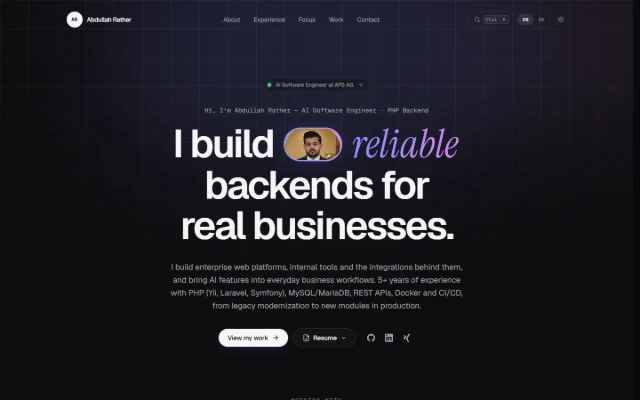
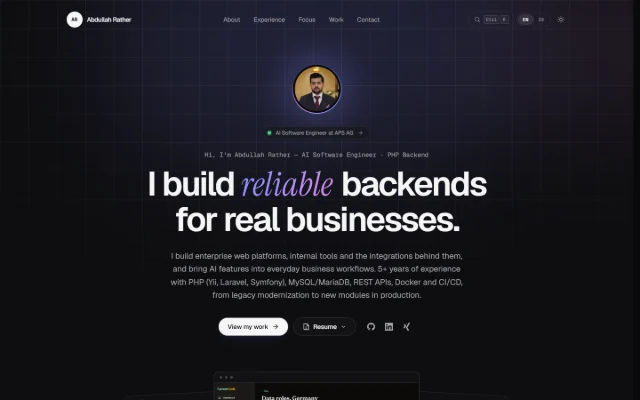
Move the portrait out of the headline and show the case studies in the hero
The portrait is a centred avatar above the headline again, so the heading is
one plain sentence for screen readers. Under the buttons, the three case
studies appear as a fan of windows that link to their pages.

diff --git a/src/components/Hero.jsx b/src/components/Hero.jsx
@@ -1,8 +1,10 @@
 import { useEffect, useRef, useState } from "react";
+import { Screen, Window } from "./Cover";
 import { Icon } from "./Icons";
 import { trackEvent } from "../lib/analytics";
 import { useExperienceYears } from "../lib/experience";
 import { useTranslation } from "../lib/i18n";
+import { studyPath } from "../lib/route";
 import { SOCIALS, STACK, getResume } from "../lib/site";
 
 const delay = (ms) => ({ "--delay": `${ms}ms` });
@@ -79,24 +81,69 @@ const ResumeMenu = () => {
   );
 };
 
-/** The portrait, set into the headline as a pill the height of a letter. */
 const Portrait = () => {
   const { t } = useTranslation();
   return (
-    <span className="mx-[0.06em] inline-block h-[0.86em] w-[1.5em] rounded-full bg-linear-to-r from-accent to-accent-2 p-[0.03em] align-[-0.1em] shadow-[0_0_3rem_-0.25rem_var(--glow)]">
-      <picture>
-        <source srcSet="/images/profile-avatar.avif" type="image/avif" />
-        <img
-          src="/images/profile-avatar.webp"
-          alt={t("ui.a11y.portrait")}
-          width="640"
-          height="640"
-          fetchPriority="high"
-          decoding="async"
-          className="size-full rounded-full object-cover object-[50%_22%]"
-        />
-      </picture>
-    </span>
+    <div className="enter relative mx-auto size-24 sm:size-28">
+      {/* Glow */}
+      <div aria-hidden="true" className="absolute -inset-4 -z-10 rounded-full bg-accent/30 blur-2xl" />
+
+      <div className="ring-conic relative size-full rounded-full p-0.5">
+        <div className="size-full rounded-full bg-bg p-1">
+          <picture>
+            <source srcSet="/images/profile-avatar.avif" type="image/avif" />
+            <img
+              src="/images/profile-avatar.webp"
+              alt={t("ui.a11y.portrait")}
+              width="640"
+              height="640"
+              fetchPriority="high"
+              decoding="async"
+              className="size-full rounded-full object-cover"
+            />
+          </picture>
+        </div>
+      </div>
+    </div>
+  );
+};
+
+const side =
+  "absolute top-[16%] w-[44%] opacity-70 transition-all duration-700 ease-out-expo hover:z-20 hover:-translate-y-2 hover:rotate-0 hover:opacity-100 focus-visible:z-20 focus-visible:opacity-100 sm:w-[38%]";
+
+/** The three case studies as a fan of windows under the buttons: one in front, two behind. */
+const Showcase = () => {
+  const { t } = useTranslation();
+  // In the order of the project list: the private platform (a schematic), then the two with screenshots.
+  const [right, left, front] = (t("projects.items") || []).filter((p) => p.caseStudy);
+  if (!front) return null;
+
+  const window = (project, className, sizes, eager) => (
+    <a
+      href={studyPath(project.slug)}
+      aria-label={`${t("ui.study.eyebrow")}: ${project.title}`}
+      className={`block ${className}`}
+    >
+      <Window className="aspect-16/10">
+        <Screen project={project} sizes={sizes} eager={eager} />
+      </Window>
+    </a>
+  );
+
+  return (
+    <div
+      className="enter relative mx-auto mt-14 max-w-4xl px-5 mask-[linear-gradient(to_bottom,#000_55%,transparent)] sm:mt-20"
+      style={delay(360)}
+    >
+      {window(left, `${side} left-5 -rotate-3`, "(min-width: 896px) 325px, 40vw")}
+      {window(right, `${side} right-5 rotate-3`, "(min-width: 896px) 325px, 40vw")}
+      {window(
+        front,
+        "relative z-10 mx-auto w-[68%] transition-transform duration-700 ease-out-expo hover:-translate-y-2 sm:w-[54%]",
+        "(min-width: 896px) 460px, 62vw",
+        true,
+      )}
+    </div>
   );
 };
 
@@ -105,11 +152,14 @@ const Hero = () => {
   const years = useExperienceYears();
 
   return (
-    <section id="top" className="relative overflow-hidden pb-16 pt-32 sm:pt-44 lg:pb-24">
+    <section id="top" className="relative overflow-hidden pb-16 pt-28 sm:pt-36 lg:pb-24">
       <div className="container-x text-center">
+        <Portrait />
+
         <a
           href="#experience"
-          className="enter group inline-flex items-center gap-2.5 rounded-full border border-line bg-card py-1.5 pl-2 pr-3.5 text-xs text-muted backdrop-blur transition-colors hover:border-line-strong hover:text-fg"
+          className="enter group mt-7 inline-flex items-center gap-2.5 rounded-full border border-line bg-card py-1.5 pl-2 pr-3.5 text-xs text-muted backdrop-blur transition-colors hover:border-line-strong hover:text-fg"
+          style={delay(60)}
         >
           <span className="relative flex size-2">
             <span className="absolute inline-flex size-full animate-ping-slow rounded-full bg-ok opacity-60" />
@@ -119,20 +169,20 @@ const Hero = () => {
           <Icon name="arrowRight" className="size-3 transition-transform group-hover:translate-x-0.5" />
         </a>
 
-        <p className="enter mt-8 font-mono text-sm text-muted" style={delay(60)}>
+        <p className="enter mt-6 font-mono text-sm text-muted" style={delay(100)}>
           {t("ui.hero.greeting")}
           <span className="hidden sm:inline"> — {t("hero.role")}</span>
         </p>
 
         <h1
-          className="enter mx-auto mt-5 max-w-5xl text-[clamp(1.9rem,9.6vw,2.6rem)] font-semibold leading-[1.04] tracking-[-0.045em] sm:text-7xl lg:text-[5.5rem]"
-          style={delay(120)}
+          className="enter mx-auto mt-4 max-w-4xl text-[clamp(1.9rem,9.6vw,2.6rem)] font-semibold leading-[1.04] tracking-[-0.045em] sm:text-6xl lg:text-[4.75rem]"
+          style={delay(140)}
         >
-          {t("ui.hero.headline_a")} <Portrait /> <span className="serif-em">{t("ui.hero.headline_em")}</span>{" "}
+          {t("ui.hero.headline_a")} <span className="serif-em">{t("ui.hero.headline_em")}</span>{" "}
           {t("ui.hero.headline_b")}
         </h1>
 
-        <p className="enter mx-auto mt-8 max-w-2xl text-base leading-relaxed text-muted sm:text-lg" style={delay(200)}>
+        <p className="enter mx-auto mt-7 max-w-2xl text-base leading-relaxed text-muted sm:text-lg" style={delay(200)}>
           {t("hero.summary", { years })}
         </p>
 
@@ -160,8 +210,10 @@ const Hero = () => {
         </div>
       </div>
 
+      <Showcase />
+
       {/* Stack marquee */}
-      <div className="enter mt-20 sm:mt-28" style={delay(400)}>
+      <div className="enter mt-12 sm:mt-16" style={delay(440)}>
         <p className="container-x mb-6 text-center font-mono text-xs uppercase tracking-[0.2em] text-subtle">
           {t("ui.hero.stack_label")}
         </p>

diff --git a/src/components/Cover.jsx b/src/components/Cover.jsx
@@ -282,30 +282,34 @@ export const Window = ({ className = "", children }) => (
   </div>
 );
 
+/** What a project's window shows: its screenshot, or its schematic. `sizes` is for screenshots. */
+export const Screen = ({ project, sizes, eager = false }) =>
+  project.shot ? (
+    <img
+      src={project.shot}
+      srcSet={`${project.shot.replace(/\.webp$/, "-640.webp")} 640w, ${project.shot} 1200w`}
+      sizes={sizes}
+      alt=""
+      loading={eager ? "eager" : "lazy"}
+      decoding="async"
+      width="1200"
+      height="750"
+      className="w-full"
+    />
+  ) : (
+    <svg viewBox="0 0 400 240" className="w-full" aria-hidden="true">
+      {MOTIFS[project.cover]}
+    </svg>
+  );
+
 /**
- * The picture for one project. `sizes` is the image `sizes` attribute for screenshots.
+ * The picture for one project: its window on the shared backdrop.
  * Decorative: the project's title is always next to it.
  */
 const Cover = ({ project, sizes, eager = false, className = "", style }) => (
   <div className={`cover relative overflow-hidden ${className}`} style={style} aria-hidden="true">
     <Window className="cover-window absolute inset-x-[7%] top-[11%] h-full rounded-b-none">
-      {project.shot ? (
-        <img
-          src={project.shot}
-          srcSet={`${project.shot.replace(/\.webp$/, "-640.webp")} 640w, ${project.shot} 1200w`}
-          sizes={sizes}
-          alt=""
-          loading={eager ? "eager" : "lazy"}
-          decoding="async"
-          width="1200"
-          height="750"
-          className="w-full"
-        />
-      ) : (
-        <svg viewBox="0 0 400 240" className="w-full">
-          {MOTIFS[project.cover]}
-        </svg>
-      )}
+      <Screen project={project} sizes={sizes} eager={eager} />
     </Window>
   </div>
 );
